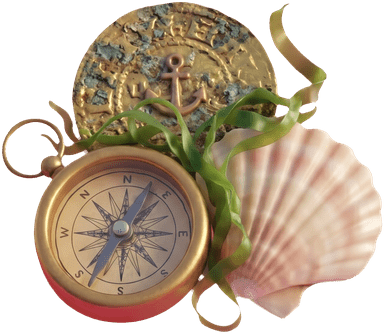
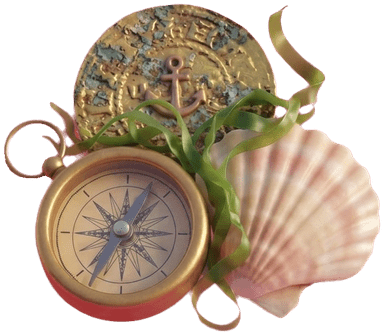
Nachbesserungen von Claude mit Gemini: Kapitän, Orden Wunschinsel und Fundstück ohne Buchstaben, Kasse mit Talos Jacke
Claude-Session: https://claude.ai/code/session_01RquttY5Fvxi8zMpAb1Usdz

diff --git a/taleria/CLAUDE.md b/taleria/CLAUDE.md
@@ -815,7 +815,7 @@ Kurzfassung für den Start einer neuen Sitzung. Die Einzelheiten stehen in Absch
    - Offen für Marc: Rive oder Bilder (Abschnitt 15).
 3. Kleine offene Punkte:
    - Lizenz der Musik bestätigen (vermutlich Pixabay, `ASSETS_LICENSES.md`).
-   - `rank.kapitaen`, `badge.wunschinsel` und `collectible.wreck_item` zeigen ein englisches „E“ für Osten. Diese Bilder neu machen, ohne Buchstaben (Texte: Bild 128 bis 130).
+   - Erledigt am 16.11.2026: `rank.kapitaen`, `badge.wunschinsel` und `collectible.wreck_item` ohne Buchstaben, `game.till` mit Talos Jacke (Bild 128 bis 131, von Claude mit Gemini).
    - Musik-Einstellung der Eltern für das Kinder-Gerät aus der Ferne. Dafür braucht es ein Feld in der Datenbank, vorher Marc fragen.
    - Bilder für „Talas Ausflüge“ (Nr. 117 bis 127, BILDER.md Abschnitt 4m): Marc macht sie mit Gemini, Claude stellt die Dinge frei und baut alles ein.
    - Bildtexte vorbereitet am 11.10.2026 abends (`design/prompts_spar_insel.txt`, BILDER.md Abschnitte 4n und 4o): Nachbesserungen 128 bis 131 (Kapitän, Orden Wunschinsel und Fundstück ohne „E“, Kasse mit Talos Jacke) und die ganze Spar-Insel 132 bis 162 (Karte, Insel von innen, Emma, Gustav, Orden, Taleron-Siegel A, drei Funde, 22 Bildergeschichten; zwei Bilder mit Zahlen zeichnet die App). Die Texte der Spar-Insel schreibt Claude passend zu diesen Bildern.
